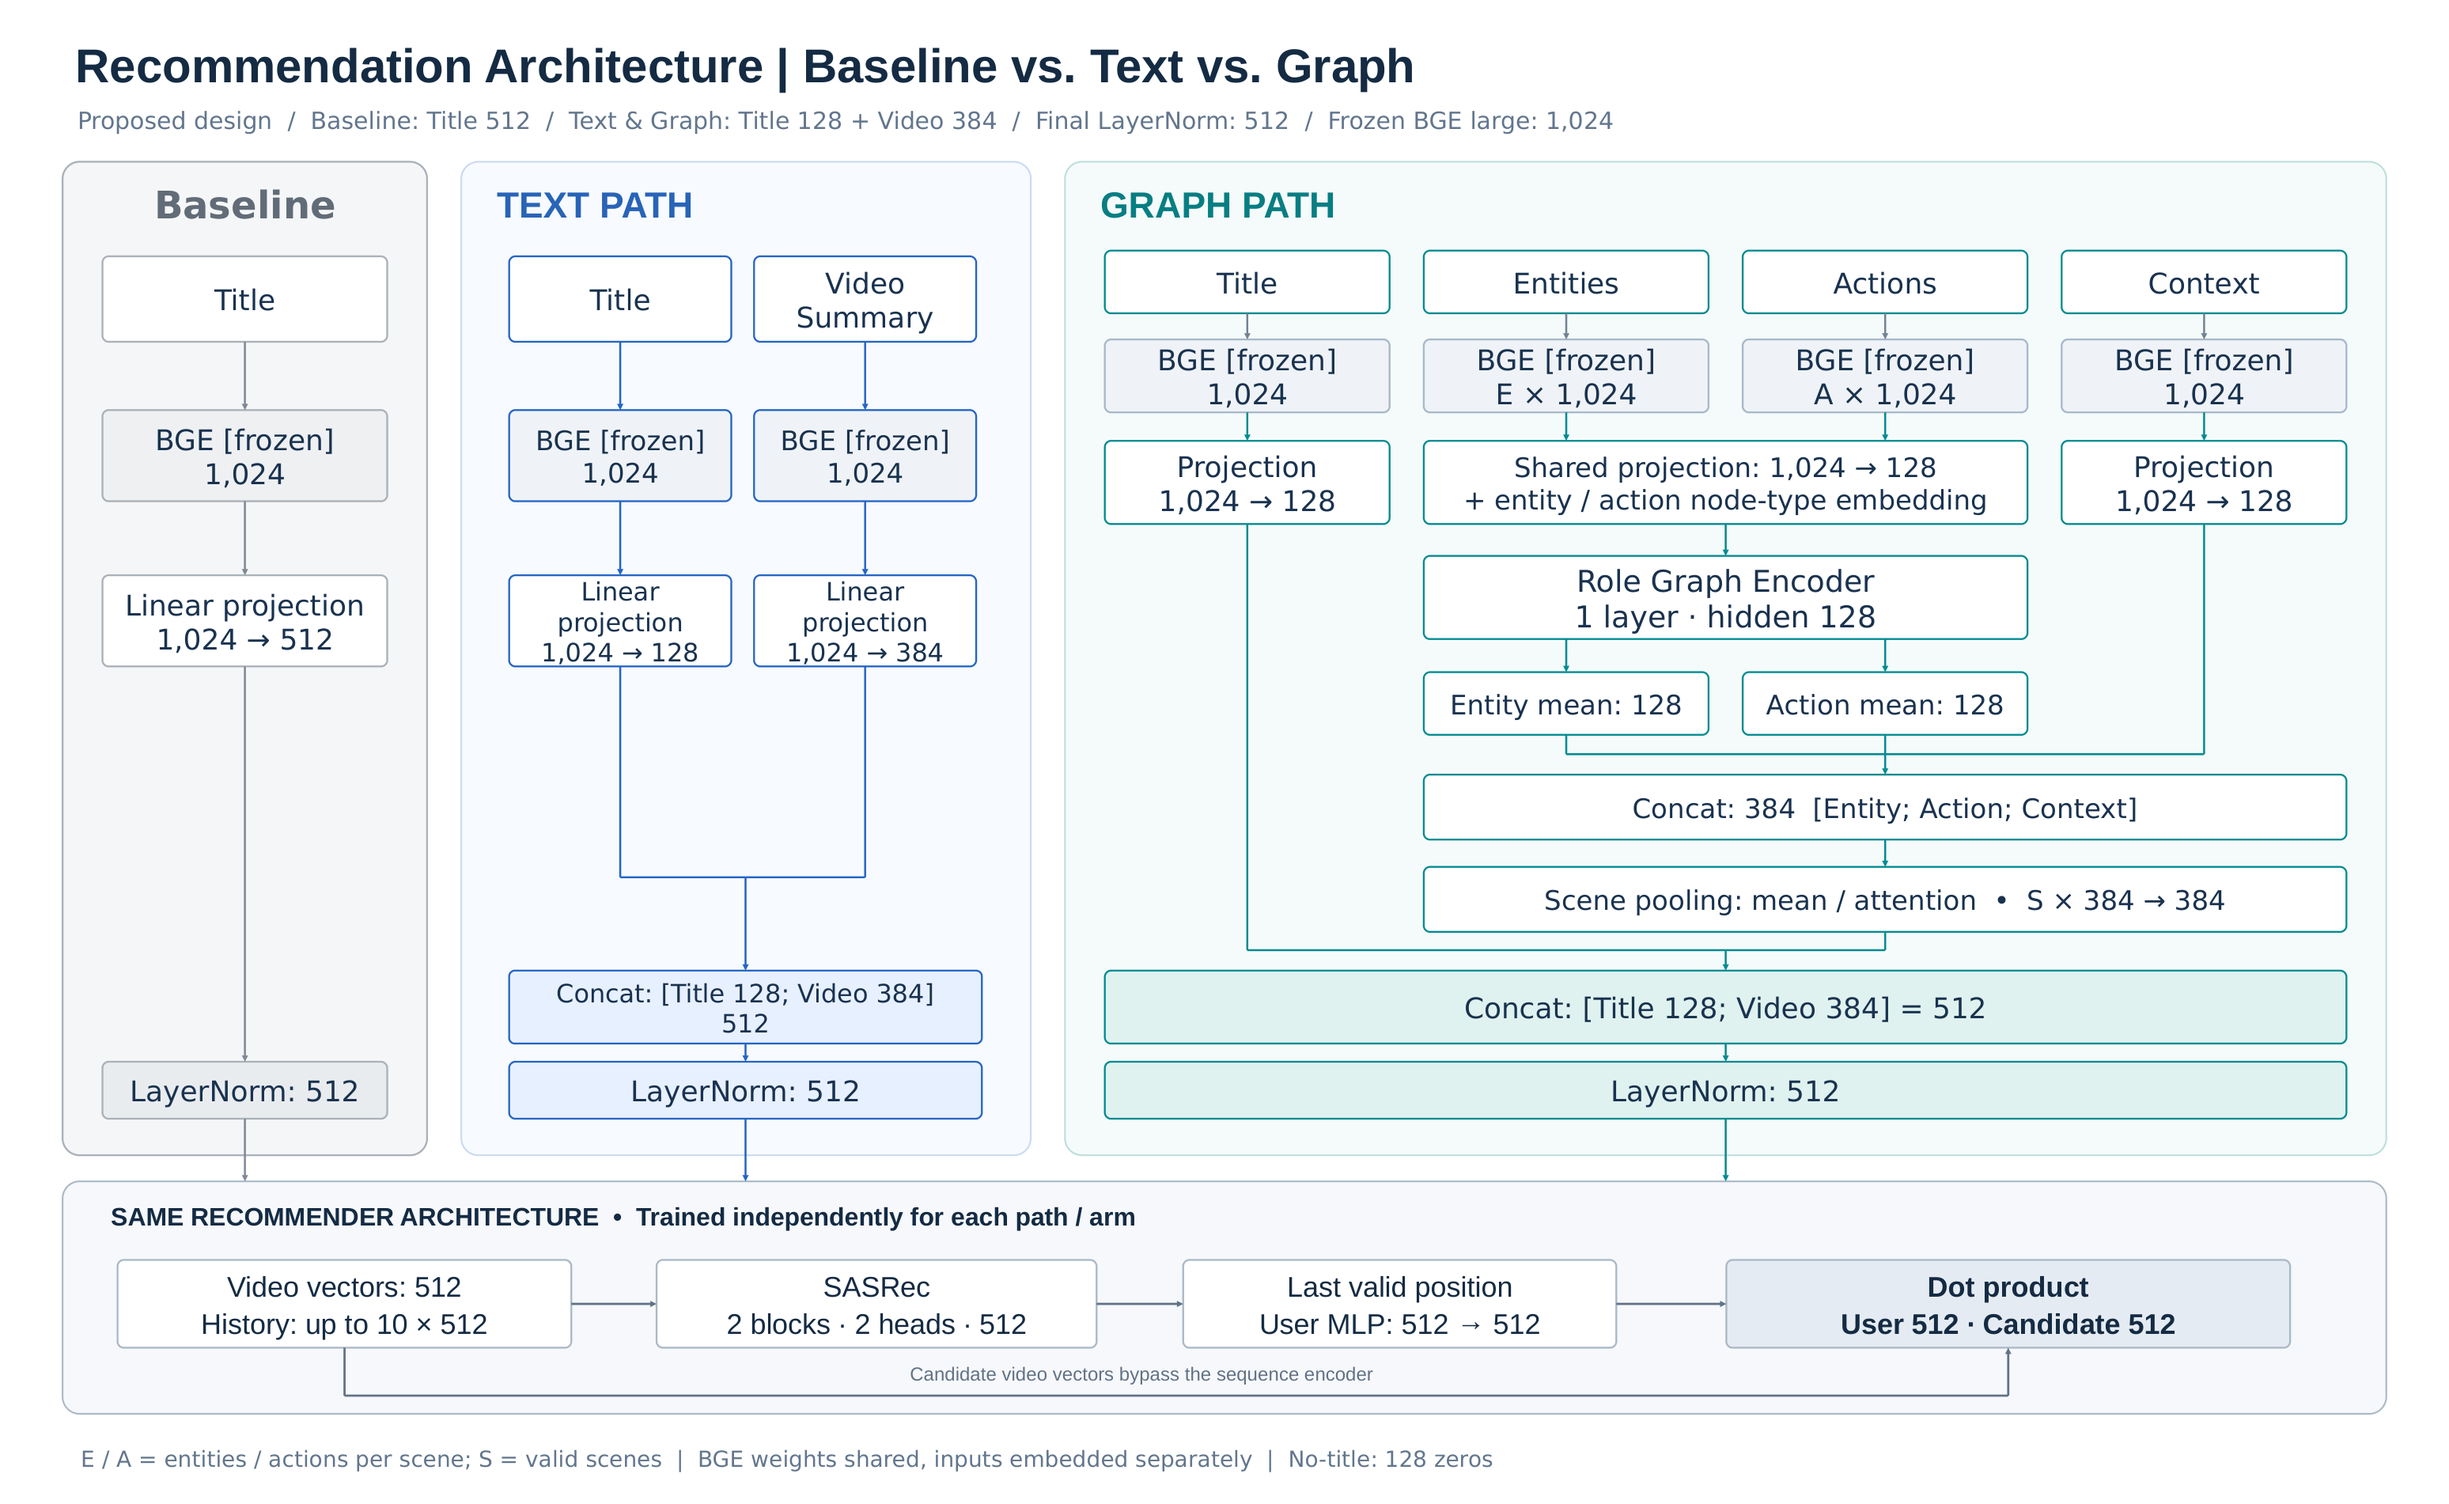
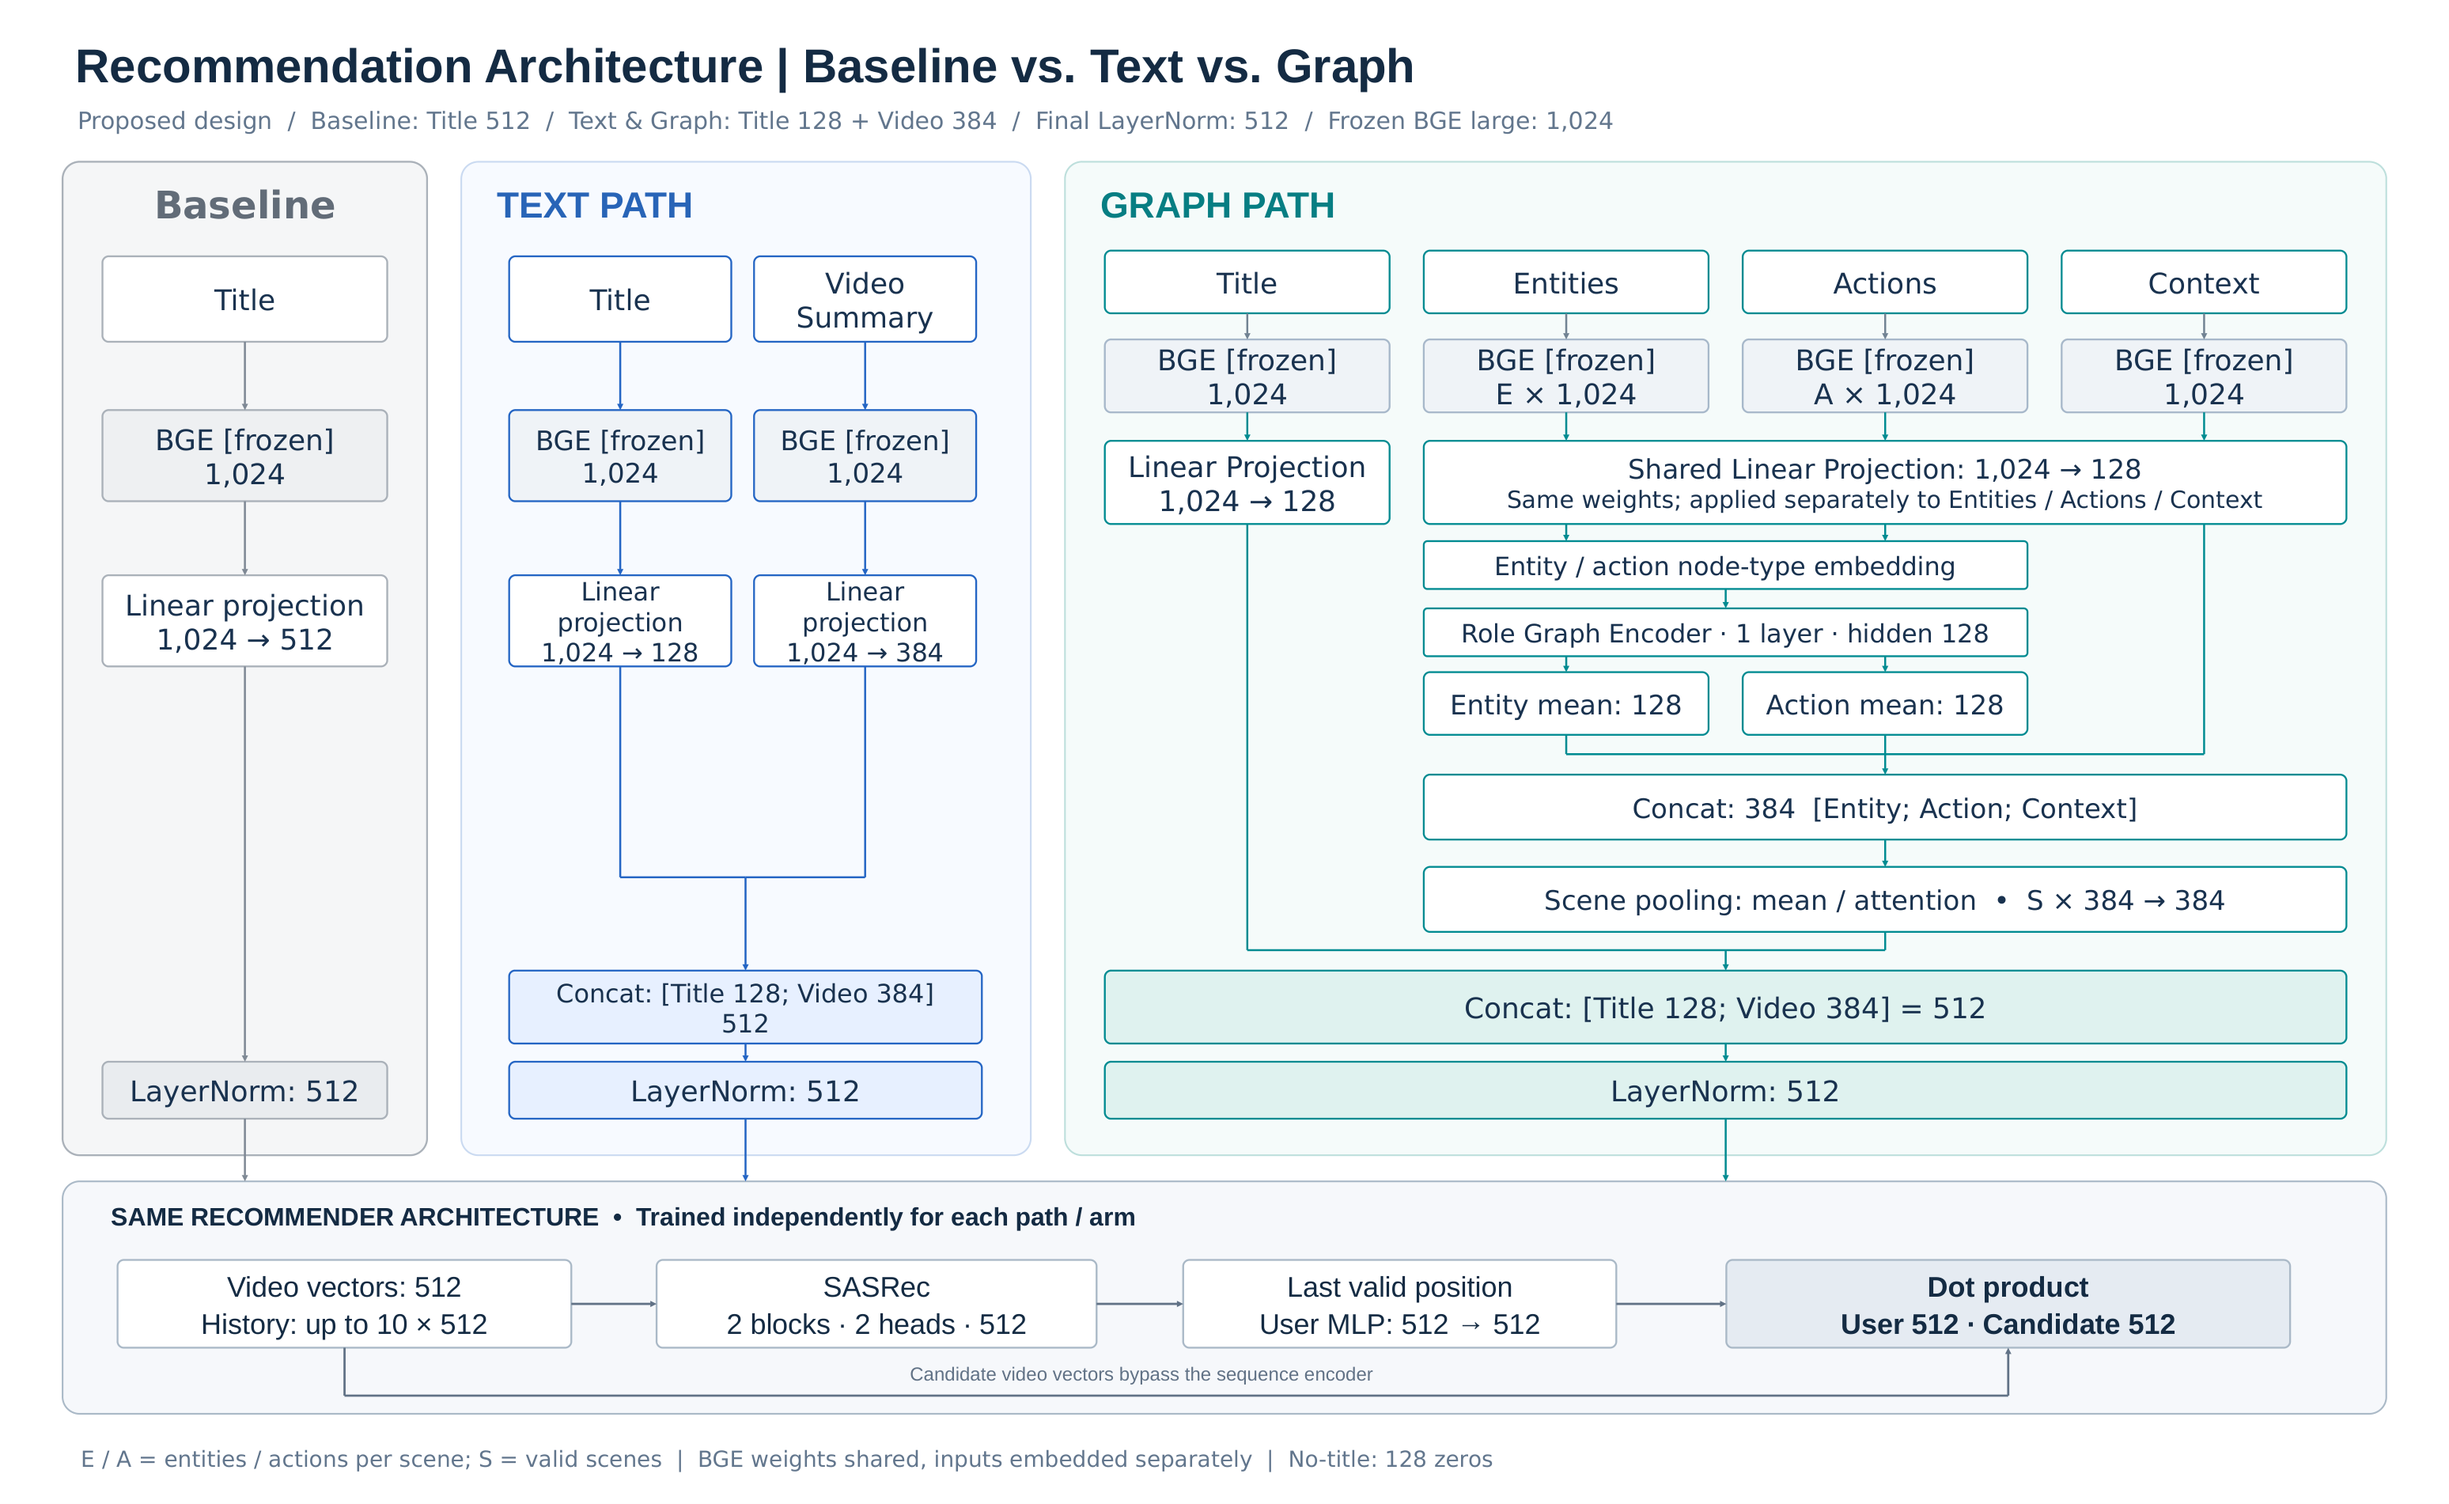
update

Changed region(s): [[0.5891, 0.3104, 0.9302, 0.4345], [0.4651, 0.2793, 0.5581, 0.3414]]

diff --git a/docs/design/generate_recsys_diagram_small.py b/docs/design/generate_recsys_diagram_small.py
@@ -1,9 +1,10 @@
-"""Derive an editable small-model diagram and render its PNG via LibreOffice.
+"""Update both editable recommendation diagrams and render PNGs via LibreOffice.
 
 Run from any directory with python-pptx, PyMuPDF and LibreOffice installed.
-The original large-model PPTX/PNG are preserved.
+The large and small diagrams use one node/context shared projection box.
 """
 
+from copy import deepcopy
 from pathlib import Path
 import os
 import shutil
@@ -12,12 +13,64 @@ import tempfile
 
 import pymupdf
 from pptx import Presentation
-from pptx.util import Inches
+from pptx.util import Inches, Pt
 
 
-def main():
-    directory = Path(__file__).resolve().parent
-    presentation = Presentation(directory / "recsys_diagram.pptx")
+def remove(shape):
+    element = shape._element
+    element.getparent().remove(element)
+
+
+def clone(slide, shape):
+    element = deepcopy(shape._element)
+    properties = element.find(".//{http://schemas.openxmlformats.org/presentationml/2006/main}cNvPr")
+    properties.set("id", str(slide.shapes._next_shape_id))
+    properties.set("name", "Shared projection branch")
+    slide.shapes._spTree.insert_element_before(element, "p:extLst")
+    return slide.shapes[-1]
+
+
+def single_line(shape, text, size):
+    paragraphs = list(shape.text_frame.paragraphs)
+    paragraphs[0].runs[0].text = text
+    paragraphs[0].runs[0].font.size = Pt(size)
+    for paragraph in paragraphs[1:]:
+        paragraph._p.getparent().remove(paragraph._p)
+
+
+def shared_projection(presentation):
+    slide = presentation.slides[0]
+    shapes = list(slide.shapes)
+    if any(s.has_text_frame and s.text.startswith("Shared Linear Projection:") for s in shapes):
+        return
+    node = next(s for s in shapes if s.has_text_frame and s.text.startswith("Shared projection:"))
+    context = next(s for s in shapes if s.has_text_frame and s.text.startswith("Projection\n")
+                   and s.left == Inches(18.1))
+    role = next(s for s in shapes if s.has_text_frame and s.text.startswith("Role Graph Encoder"))
+    incoming = next(s for s in shapes if not s.has_text_frame and s.left == Inches(15.15)
+                    and s.top == Inches(4.6))
+    node.width = Inches(8.1)
+    node.text_frame.paragraphs[0].runs[0].text = "Shared Linear Projection: 1,024 → 128"
+    node.text_frame.paragraphs[1].runs[0].text = "Same weights; applied separately to Entities / Actions / Context"
+    node.text_frame.paragraphs[1].runs[0].font.size = Pt(15)
+    remove(context)
+    embedding = clone(slide, role)
+    embedding.top, embedding.height = Inches(4.75), Inches(0.42)
+    single_line(embedding, "Entity / action node-type embedding", 16)
+    role.top, role.height = Inches(5.34), Inches(0.42)
+    single_line(role, "Role Graph Encoder · 1 layer · hidden 128", 16)
+    # Two node outputs receive type embeddings; the Context output follows its
+    # existing vertical wire directly to the scene concat.
+    for x, top, height in ((13.75, 4.6, 0.15), (16.55, 4.6, 0.15), (15.15, 5.17, 0.17)):
+        line = clone(slide, incoming)
+        line.left, line.top, line.height = Inches(x), Inches(top), Inches(height)
+    remove(incoming)
+    for line in shapes:
+        if not line.has_text_frame and line.top == Inches(5.61) and line.left in (Inches(13.75), Inches(16.55)):
+            line.top, line.height = Inches(5.76), Inches(0.14)
+
+
+def small_model(presentation):
     slide = presentation.slides[0]
     shapes = list(slide.shapes)
     for shape in shapes:
@@ -31,19 +84,22 @@ def main():
     )
     # Remove the Text summary projection and its incoming connector. The existing
     # blue wire now runs directly from the summary's BGE output to the concat.
-    for shape in (shapes[36], shapes[38]):
-        element = shape._element
-        element.getparent().remove(element)
-    shapes[39].top = Inches(4.4)
-    shapes[39].height = Inches(3.3)
-    shapes[60].text_frame.paragraphs[0].runs[0].text = "Shared node/context projection: 384 → 128"
-    shapes[61].text_frame.paragraphs[0].runs[0].text = "Shared projection*"
+    projection = next(s for s in shapes if s.has_text_frame and s.left == Inches(6.62)
+                      and s.top == Inches(5.05))
+    incoming = next(s for s in shapes if not s.has_text_frame and s.left == Inches(7.595)
+                    and s.top == Inches(4.4))
+    outgoing = next(s for s in shapes if not s.has_text_frame and s.left == Inches(7.595)
+                    and s.top == Inches(5.85))
+    remove(projection)
+    remove(incoming)
+    outgoing.top, outgoing.height = Inches(4.4), Inches(3.3)
     shapes[26].text_frame.paragraphs[0].runs[0].text = (
-        "E / A = entities / actions; S = valid scenes  |  *Node/context projection weights shared"
+        "E / A = entities / actions; S = valid scenes  |  Node/context projection weights shared"
         "  |  Text summary: direct 384  |  No-title: 128 zeros"
     )
-    output = directory / "recsys_diagram_small.pptx"
-    presentation.save(output)
+
+
+def render(output):
     environment = os.environ.copy()
     program = Path(shutil.which("soffice")).resolve().parent
     environment["LD_LIBRARY_PATH"] = str(program) + ":" + environment.get("LD_LIBRARY_PATH", "")
@@ -53,11 +109,29 @@ def main():
             "soffice", f"-env:UserInstallation={work.joinpath('lo-profile').as_uri()}",
             "--headless", "--convert-to", "pdf", "--outdir", str(work), str(output),
         ], check=True, env=environment)
-        with pymupdf.open(work / "recsys_diagram_small.pdf") as pdf:
+        with pymupdf.open(work / output.with_suffix(".pdf").name) as pdf:
             assert len(pdf) == 1
             pdf[0].get_pixmap(matrix=pymupdf.Matrix(2, 2), alpha=False).save(
-                directory / "recsys_diagram_small.png"
+                output.with_suffix(".png")
             )
+
+
+def main():
+    directory = Path(__file__).resolve().parent
+    regular = directory / "recsys_diagram.pptx"
+    presentation = Presentation(regular)
+    shared_projection(presentation)
+    title_projection = next(
+        shape for shape in presentation.slides[0].shapes
+        if shape.has_text_frame and shape.left == Inches(9.7) and shape.top == Inches(3.87)
+    )
+    title_projection.text_frame.paragraphs[0].runs[0].text = "Linear Projection"
+    presentation.save(regular)
+    render(regular)
+    small_model(presentation)
+    small = directory / "recsys_diagram_small.pptx"
+    presentation.save(small)
+    render(small)
 
 
 if __name__ == "__main__":

diff --git a/docs/graph_training.md b/docs/graph_training.md
@@ -369,9 +369,11 @@ profiler를 끈 wall time만 사용합니다.
 
 Small 구조 그림: [편집 가능한 PPTX](design/recsys_diagram_small.pptx),
 [PPTX에서 렌더링한 PNG](design/recsys_diagram_small.png).
-[생성 코드](design/generate_recsys_diagram_small.py)는 기존 large PPTX를 읽어 도형·연결선을
-수정하고 LibreOffice로 PDF를 렌더링한 뒤 PNG를 생성합니다. 실행에는 `python-pptx`,
-`PyMuPDF`, LibreOffice Impress가 필요합니다. 기존 `recsys_diagram.pptx/png`는 변경하지 않습니다.
+[생성 코드](design/generate_recsys_diagram_small.py)는 large와 small 모두에서 Entity·Action·Context가
+하나의 Shared Linear Projection 상자를 통과하도록 표시합니다. 노드 종류 embedding과 Role Graph
+Encoder는 Entity·Action 분기에만 적용하고, Context 분기는 장면 concat에 직접 연결합니다.
+두 PPTX를 편집 가능한 도형·연결선으로 저장하고 LibreOffice PDF를 거쳐 PNG로 렌더링합니다.
+실행에는 `python-pptx`, `PyMuPDF`, LibreOffice Impress가 필요합니다.
 
 ## 이전 모델 v4: Baseline·Text·Graph 최종 구조
 
